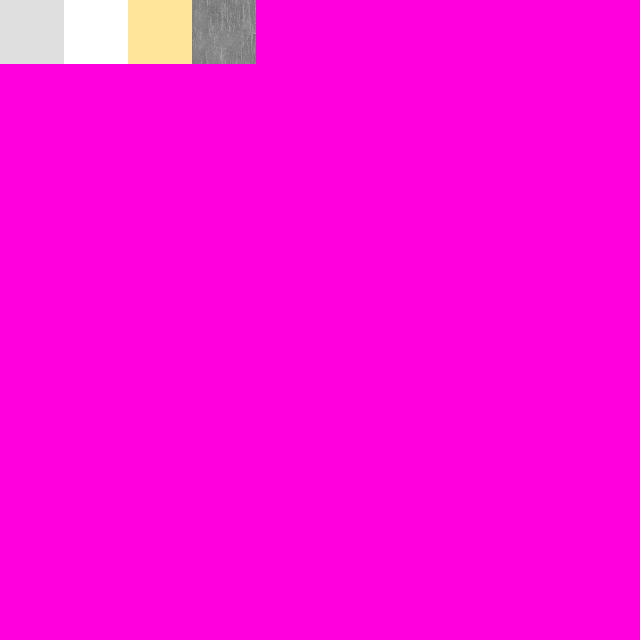
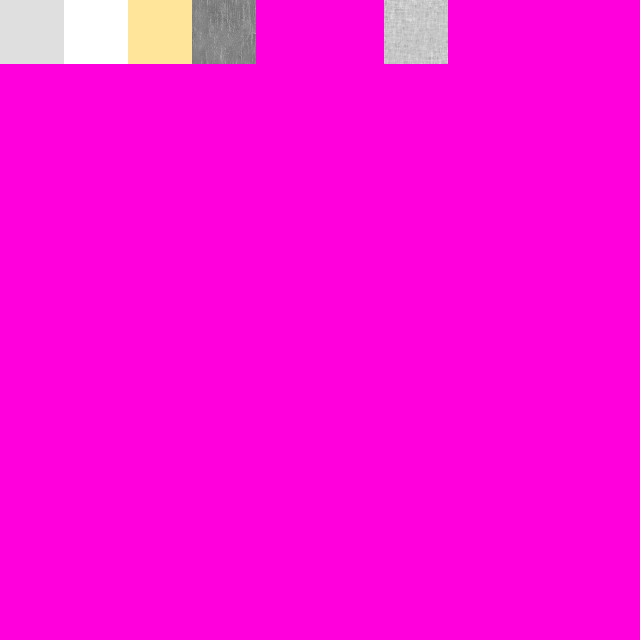
Added new tile (Stone Floor).

Changed region(s): [[0.5938, 0.0, 0.7188, 0.125]]

diff --git a/Floor Zero/Floor Zero/Classes/Entities/Tile.cs b/Floor Zero/Floor Zero/Classes/Entities/Tile.cs
@@ -48,6 +48,13 @@ namespace Floor_Zero.Classes.Entities
             Empty3.Flippable = false;
             types.Add(Empty3);
 
+            // Stone wall
+            var StoneWall = new TileType();
+            StoneWall.Name = "Stone Wall";
+            StoneWall.solid = true;
+            StoneWall.Flippable = true;
+            types.Add(StoneWall);
+
             // Dirt floor
             var DirtFloor = new TileType();
             DirtFloor.Name = "Dirt Floor";
@@ -62,12 +69,13 @@ namespace Floor_Zero.Classes.Entities
             GrassFloor.Flippable = true;
             types.Add(GrassFloor);
 
-            // Stone wall
-            var StoneWall = new TileType();
-            StoneWall.Name = "Stone Wall";
-            StoneWall.solid = true;
-            StoneWall.Flippable = true;
-            types.Add(StoneWall);
+            // Stone floor
+            var StoneFloor = new TileType();
+            StoneFloor.Name = "Stone Floor";
+            StoneFloor.solid = false;
+            StoneFloor.Flippable = true;
+            types.Add(StoneFloor);
+
         }
 
         public static TileType Get(short id)

diff --git a/Floor Zero/Floor Zero/Classes/Managers/Manager_Tile.cs b/Floor Zero/Floor Zero/Classes/Managers/Manager_Tile.cs
@@ -165,12 +165,12 @@ namespace Floor_Zero.Classes.Managers
 
         private void ChangeSelectedTileIndex()
         {
-            if (CheckKeyboardState(Keys.X) && selectedTileIndex < 5)
+            if (CheckKeyboardState(Keys.X) && selectedTileIndex < 6)
             {
                 selectedTileIndex++;
             }
 
-            if (CheckKeyboardState(Keys.Z) && selectedTileIndex > 0)
+            if (CheckKeyboardState(Keys.Z) && selectedTileIndex > 3)
             {
                 selectedTileIndex--;
             }
